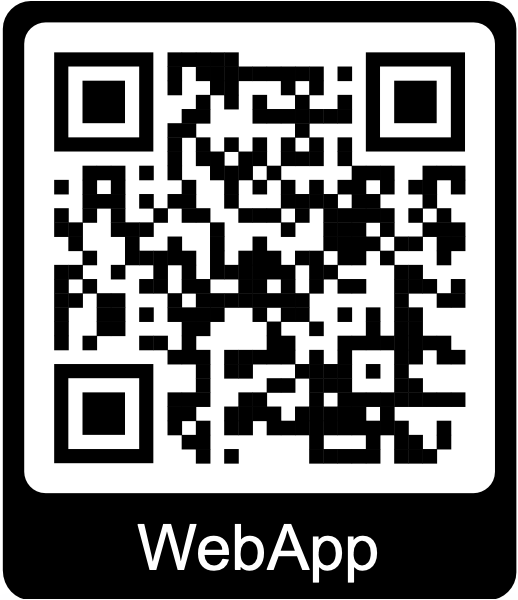
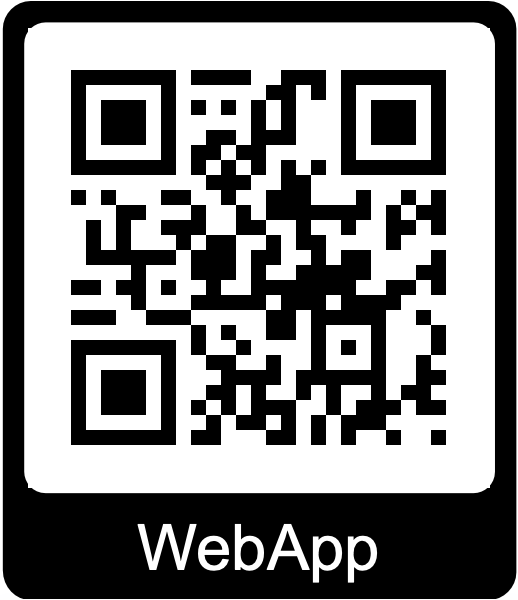
changing to ctrim dot org

diff --git a/test/unit/utility/app_links_test.dart b/test/unit/utility/app_links_test.dart
@@ -31,20 +31,20 @@ void main() {
     });
 
     test('uses the public web origin', () {
-      expect(AppLinks.postUrl('post-42'), 'https://ctrim.app/post/post-42');
+      expect(AppLinks.postUrl('post-42'), 'https://ctrim.org/post/post-42');
       expect(
         AppLinks.cellGroupUrl('cg-1'),
-        'https://ctrim.app/cell-groups/cg-1',
+        'https://ctrim.org/cell-groups/cg-1',
       );
       expect(
-          AppLinks.churchUrl('belfast'), 'https://ctrim.app/churches/belfast');
+          AppLinks.churchUrl('belfast'), 'https://ctrim.org/churches/belfast');
       expect(AppLinks.infoUrl('core_values'),
-          'https://ctrim.app/info/core_values');
+          'https://ctrim.org/info/core_values');
       expect(
         AppLinks.testimonialUrl('t-1'),
-        'https://ctrim.app/testimonials/t-1',
+        'https://ctrim.org/testimonials/t-1',
       );
-      expect(AppLinks.personUrl('u-1'), 'https://ctrim.app/people/u-1');
+      expect(AppLinks.personUrl('u-1'), 'https://ctrim.org/people/u-1');
     });
   });
 
@@ -63,7 +63,7 @@ void main() {
     test('maps postId query to /post/:id', () {
       expect(
         AppLinks.redirectFromUri(
-            Uri.parse('https://ctrim.app/?postId=post-42')),
+            Uri.parse('https://ctrim.org/?postId=post-42')),
         '/post/post-42',
       );
     });
@@ -71,19 +71,19 @@ void main() {
     test('maps infoPage query to /info/:id', () {
       expect(
         AppLinks.redirectFromUri(
-            Uri.parse('https://ctrim.app/?infoPage=core_values')),
+            Uri.parse('https://ctrim.org/?infoPage=core_values')),
         '/info/core_values',
       );
       expect(
         AppLinks.redirectFromUri(Uri.parse(
-            'https://ctrim.app/?infoPage=assets/info/ctrim_info/4xd.json')),
+            'https://ctrim.org/?infoPage=assets/info/ctrim_info/4xd.json')),
         '/info/4xd',
       );
     });
 
     test('returns null when there is no known query', () {
       expect(
-        AppLinks.redirectFromUri(Uri.parse('https://ctrim.app/bulletin')),
+        AppLinks.redirectFromUri(Uri.parse('https://ctrim.org/bulletin')),
         isNull,
       );
     });
@@ -91,7 +91,7 @@ void main() {
     test('prefers postId when both query params are present', () {
       expect(
         AppLinks.redirectFromUri(
-          Uri.parse('https://ctrim.app/?postId=p1&infoPage=core_values'),
+          Uri.parse('https://ctrim.org/?postId=p1&infoPage=core_values'),
         ),
         '/post/p1',
       );
@@ -99,14 +99,14 @@ void main() {
 
     test('ignores empty postId', () {
       expect(
-        AppLinks.redirectFromUri(Uri.parse('https://ctrim.app/?postId=')),
+        AppLinks.redirectFromUri(Uri.parse('https://ctrim.org/?postId=')),
         isNull,
       );
     });
 
     test('encodes ids in the redirected path', () {
       expect(
-        AppLinks.redirectFromUri(Uri.parse('https://ctrim.app/?postId=a b')),
+        AppLinks.redirectFromUri(Uri.parse('https://ctrim.org/?postId=a b')),
         '/post/a%20b',
       );
     });
@@ -139,14 +139,14 @@ void main() {
     test('sends / to the startup tab and leaves a section link', () {
       expect(
         AppLinks.redirectLocation(
-          Uri.parse('https://ctrim.app/'),
+          Uri.parse('https://ctrim.org/'),
           preferredHomeTab: AppLinks.personalTab,
         ),
         '/personal',
       );
       expect(
         AppLinks.redirectLocation(
-          Uri.parse('https://ctrim.app/bulletin'),
+          Uri.parse('https://ctrim.org/bulletin'),
           preferredHomeTab: AppLinks.ctrimTab,
         ),
         isNull,
@@ -156,7 +156,7 @@ void main() {
     test('still prefers a legacy post query over the startup tab', () {
       expect(
         AppLinks.redirectLocation(
-          Uri.parse('https://ctrim.app/?postId=post-42'),
+          Uri.parse('https://ctrim.org/?postId=post-42'),
           preferredHomeTab: AppLinks.personalTab,
         ),
         '/post/post-42',

diff --git a/cloudflare-worker.js b/cloudflare-worker.js
@@ -6,10 +6,11 @@
  * the app can list a public folder’s files without a Google API key
  * (see lib/utility/drive_folder_listing.dart).
  *
- * Deployment:
- * 1. https://workers.cloudflare.com/ → worker `ctrim-image-proxy`
- * 2. Paste this file → Deploy
- * 3. If the worker URL changes, update:
+ * Deployment (same worker URL either way):
+ * 1. npx wrangler login   (once; writes auth outside this repo)
+ * 2. npx wrangler deploy  (repo root; see wrangler.toml)
+ * Or paste this file at https://workers.cloudflare.com/ onto worker `ctrim-image-proxy`.
+ * If the worker URL changes, update:
  *    - ctrim_app: lib/utility/network_image_helper.dart
  *    - ctrim_worship: lib/utility/image_url_helper.dart
  *
@@ -31,6 +32,8 @@ addEventListener('fetch', (event) => {
 const ALLOWED_ORIGINS = new Set([
   'https://ctrim.app',
   'https://www.ctrim.app',
+  'https://ctrim.org',
+  'https://www.ctrim.org',
   // Worship web (same image proxy)
   'https://ctrimworship.web.app',
   'https://ctrimworship.firebaseapp.com',

diff --git a/test/unit/utility/post_share_text_test.dart b/test/unit/utility/post_share_text_test.dart
@@ -4,7 +4,7 @@ import 'package:flutter_test/flutter_test.dart';
 void main() {
   group('PostShareText', () {
     test('link is the public post address', () {
-      expect(PostShareText.link('abc'), 'https://ctrim.app/post/abc');
+      expect(PostShareText.link('abc'), 'https://ctrim.org/post/abc');
     });
 
     test('write-up starts with the title and link, then the plain text', () {
@@ -18,7 +18,7 @@ void main() {
 
       expect(
         text,
-        'Sunday\nhttps://ctrim.app/post/abc\n---\n\nWelcome everyone',
+        'Sunday\nhttps://ctrim.org/post/abc\n---\n\nWelcome everyone',
       );
     });
 
@@ -48,7 +48,7 @@ void main() {
       );
 
       expect(text, contains('failed'));
-      expect(text, startsWith('Sunday\nhttps://ctrim.app/post/abc\n---'));
+      expect(text, startsWith('Sunday\nhttps://ctrim.org/post/abc\n---'));
     });
   });
 }

diff --git a/web/firebase-messaging-sw.js b/web/firebase-messaging-sw.js
@@ -126,3 +126,12 @@ messaging.onBackgroundMessage((payload) => {
     .then(() => console.log('[NOTIF] SW showNotification OK:', notificationTitle))
     .catch((err) => console.error('[NOTIF] SW showNotification FAILED:', err, notificationOptions));
 });
+
+// Chrome only fires beforeinstallprompt when this worker has a fetch handler.
+// Pass the request through. An empty listener is treated as a no-op and ignored.
+self.addEventListener('fetch', (event) => {
+  if (event.request.cache === 'only-if-cached' && event.request.mode !== 'same-origin') {
+    return;
+  }
+  event.respondWith(fetch(event.request));
+});

diff --git a/lib/pages/personal/share_web_app_page.dart b/lib/pages/personal/share_web_app_page.dart
@@ -304,7 +304,7 @@ class _ShareWebAppPageState extends State<ShareWebAppPage> {
                 context,
                 '1',
                 'Open the link',
-                'Visit https://ctrim.app in Chrome, Edge, or Safari.',
+                'Visit ${AppLinks.webOrigin} in Chrome, Edge, or Safari.',
               ),
               const SizedBox(height: 12),
               _buildInstructionStep(

diff --git a/lib/utility/app_links.dart b/lib/utility/app_links.dart
@@ -15,7 +15,7 @@ import '../models/user.dart';
 class AppLinks {
   AppLinks._();
 
-  static const String webOrigin = 'https://ctrim.app';
+  static const String webOrigin = 'https://ctrim.org';
 
   /// Main shell tabs, in home-page order (Bulletin, CTRIM, Cell Groups, Personal).
   ///

diff --git a/functions/tests/test_fcm_payload.py b/functions/tests/test_fcm_payload.py
@@ -46,20 +46,20 @@ class FcmPayloadTests(unittest.TestCase):
     def test_web_click_link(self):
         self.assertEqual(
             web_click_link({'PostID': 'post-42'}),
-            'https://ctrim.app/post/post-42',
+            'https://ctrim.org/post/post-42',
         )
         self.assertEqual(
             web_click_link({'InfoPage': 'core values'}),
-            'https://ctrim.app/info/core%20values',
+            'https://ctrim.org/info/core%20values',
         )
         self.assertEqual(
             web_click_link(
                 {'InfoPage': 'assets/info/ctrim_info/core_values.json'}
             ),
-            'https://ctrim.app/info/core_values',
+            'https://ctrim.org/info/core_values',
         )
-        self.assertEqual(web_click_link({}), 'https://ctrim.app/')
-        self.assertEqual(web_click_link(None), 'https://ctrim.app/')
+        self.assertEqual(web_click_link({}), 'https://ctrim.org/')
+        self.assertEqual(web_click_link(None), 'https://ctrim.org/')
 
 
 if __name__ == '__main__':

diff --git a/functions/tests/test_notification_schedule.py b/functions/tests/test_notification_schedule.py
@@ -192,7 +192,7 @@ class NotificationScheduleTests(unittest.TestCase):
         self.assertEqual(calls[0].data['PostID'], 'post-1')
         self.assertEqual(
             calls[0].webpush.fcm_options.link,
-            'https://ctrim.app/post/post-1',
+            'https://ctrim.org/post/post-1',
         )
         self.assertEqual(calls[0].android.notification.image, 'https://example.com/cover.png')
         self.assertIsNone(calls[1].android.notification)

diff --git a/functions/tests/test_main_multicast.py b/functions/tests/test_main_multicast.py
@@ -20,7 +20,7 @@ class MainMulticastTests(unittest.TestCase):
         self.assertEqual(msg.notification.title, 'Hello')
         self.assertEqual(
             msg.webpush.fcm_options.link,
-            'https://ctrim.app/post/post-99',
+            'https://ctrim.org/post/post-99',
         )
 
 

diff --git a/functions/fcm_payload.py b/functions/fcm_payload.py
@@ -13,7 +13,7 @@ _DRIVE_HOST_HINTS = (
     'drive.usercontent.google.com',
 )
 # Same origin as ShareWebAppPage.webAppLink — FCM web click fallback.
-_WEB_APP_ORIGIN = 'https://ctrim.app'
+_WEB_APP_ORIGIN = 'https://ctrim.org'
 
 
 def is_valid_fcm_topic(topic: str) -> bool:

diff --git a/docs/stakeholders/events-and-bulletin.md b/docs/stakeholders/events-and-bulletin.md
@@ -10,7 +10,7 @@ Definitions for **post**, **interest**, **bookmark**, **template**, and related 
 - On bulletin cards, a **tall photo** sits along the side next to the title; a **wide photo** fills the bottom of the card. When there are several photos, portraits stay on the side and the rest share a strip along the bottom
 - When a post has no photos, the card shows the **speakers** (up to three) with their photos and names. The first speaker’s photo is also the picture at the top of the post
 - A post’s tag sits in the same label as Upcoming or Recent, for example **Upcoming • Sunday Worship**, in that label’s colour. The date and time stay on their own line under the description
-- **Share** (top of an open post, on every tab) sends the post’s **link** (`ctrim.app/post/…`), or the **write-up** (the title, the link, and the About text). On a phone this opens the usual share menu. When that menu is not available, the link is copied so you can paste it. Guests and members who open the link land on that post. If the post is the first page (a shared link, a bookmark, or a refresh), **Home** in the top corner opens the bulletin. Opening the post from inside the app still uses Back
+- **Share** (top of an open post, on every tab) sends the post’s **link** (`ctrim.org/post/…`), or the **write-up** (the title, the link, and the About text). On a phone this opens the usual share menu. When that menu is not available, the link is copied so you can paste it. Guests and members who open the link land on that post. If the post is the first page (a shared link, a bookmark, or a refresh), **Home** in the top corner opens the bulletin. Opening the post from inside the app still uses Back
 - Other browseable records work the same way: cell groups, churches, information topics, testimonials, and people profiles each have an address you can share or bookmark
 - On many posts, see **interest** and **attendance** counts
 - When signed in: mark **interest** (“follow updates” for that post) and see who else is interested

diff --git a/docs/stakeholders/platforms.md b/docs/stakeholders/platforms.md
@@ -33,7 +33,7 @@ On web, the app may also gently suggest adding to the home screen once. Opening 
 | Push notifications | Especially important to set up correctly on web — see [Notifications](notifications.md) |
 | Guest browsing | Works without an account; richer features need sign-in |
 | Opening the app | A short progress screen while churches, groups, the bulletin, and people load. Guests and signed-in people both see it, then the page they opened |
-| Section links | The address follows the main section: Bulletin, CTRIM, Cell Groups, or Personal. A link such as `ctrim.app/personal` opens that section. The plain site address still uses the startup tab in Personal settings |
+| Section links | The address follows the main section: Bulletin, CTRIM, Cell Groups, or Personal. A link such as `ctrim.org/personal` opens that section. The plain site address still uses the startup tab in Personal settings |
 | Shared links | When a post, church, group, topic, testimonial, or profile is the first page, **Home** in the top corner opens its section. An extra church page, pastors, or statistics still goes back to that church first. Opening the same page from inside the app keeps Back |
 | Product Guide | Guests open this site’s home. Signed-in people open [For servers & leaders](servers-and-leaders.md) |
 
